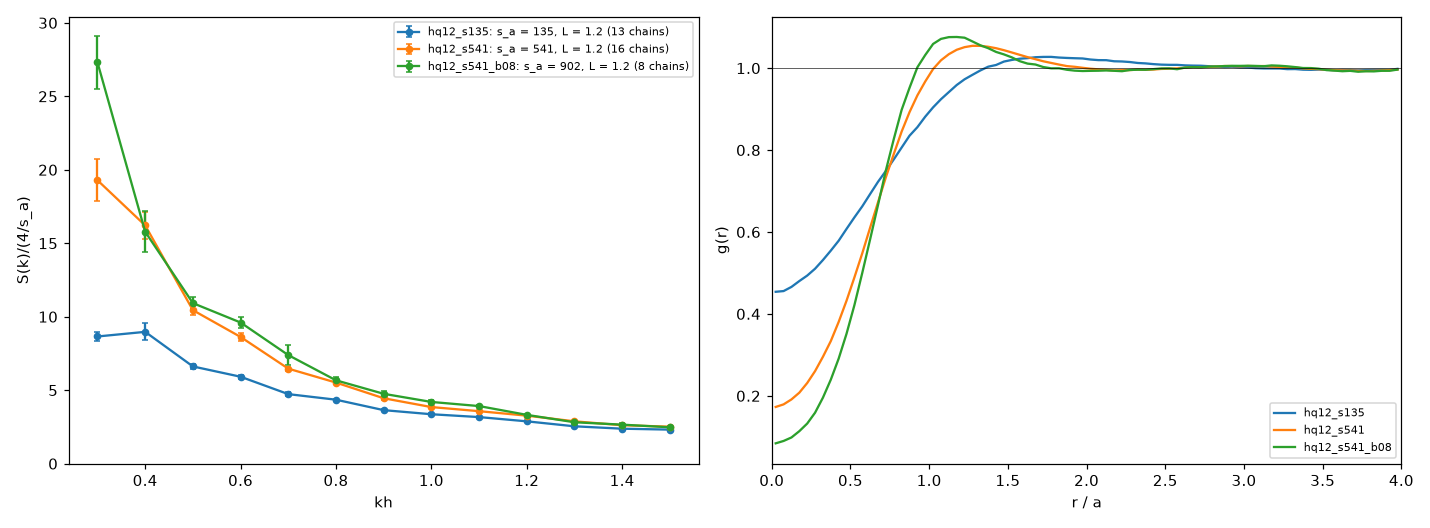
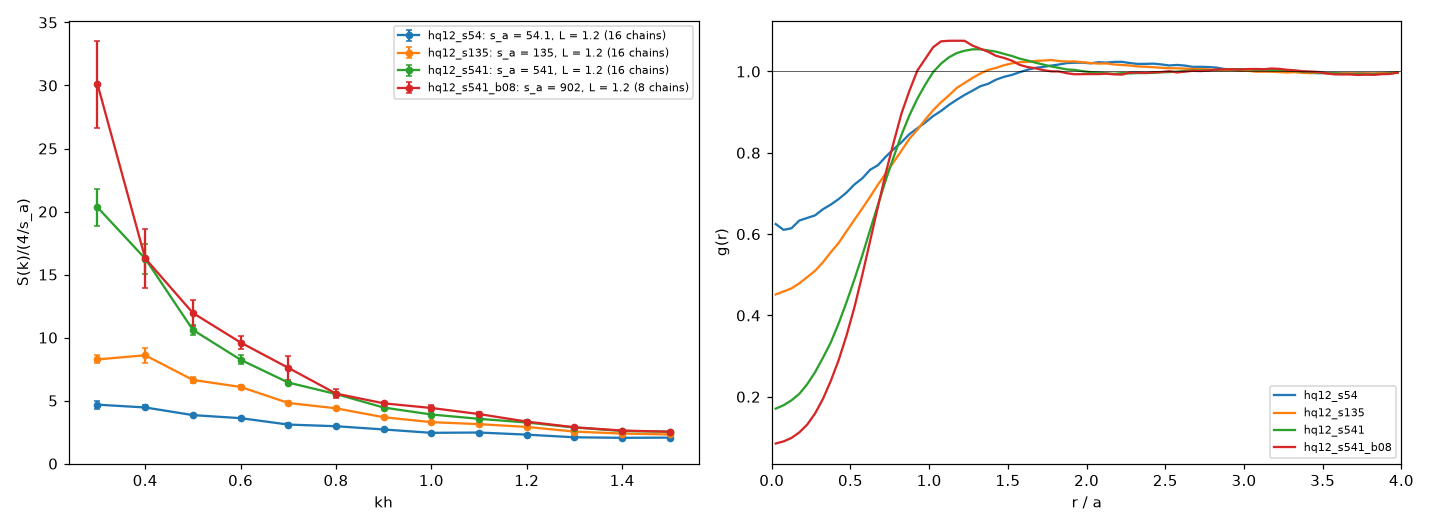
equilibrium_positions: hmc_eq L = 1.2 complete (s_a = 54 added), burn-in 100 updates; long runs complete: the dynamics levels off below HMC (6-11% at kh 1-1.5, 20-30% at 0.3-0.5; 3-4σ at s_a = 135), not slow relaxation

diff --git a/docs/equilibrium_positions.tex b/docs/equilibrium_positions.tex
@@ -688,47 +688,50 @@ start that remembers it need not give equal $C(k\hat x)$ and $C(k\hat y)$.  The 
 not equilibrium, at $kh\lesssim0.5$.  Campaign \texttt{hmc\_liou2} (job 61309610) repeats the $2\times2$ with the Liouville measure, an HMC start of
 200 updates with random trajectory lengths in $[L/2c_s,L/c_s]$ (\texttt{SR\_HMC\_TAUJIT}), independent seeds, and 64 runs per cell.
 
-\paragraph{The equilibrium $S(\bm k)$ from many chains} (campaign \texttt{hmc\_eq}, job 61295241; first 37 of 72 chains: $L=1.2$, $s_a=135$ (13
-chains) and $541$ (16), and $s_a=541$ boosted to $v_0=0.8$ (8; $s_a=902$ in the lab), \Fig{fig:hmceqfirst}).  $S(\bm k)/(4/s_a)$ per band of $kh$,
-with the error from the spread of the chains and $\tau_{\rm int}$:
+\paragraph{The equilibrium $S(\bm k)$ from many chains} (campaign \texttt{hmc\_eq}, job 61295241; the $L=1.2$ sets complete, 16 chains each at
+$s_a=54$, $135$, $541$, and 8 at $s_a=541$ boosted to $v_0=0.8$ ($s_a=902$ in the lab); the $L=2.4$ sets running; \Fig{fig:hmceqfirst}).
+$S(\bm k)/(4/s_a)$ per band of $kh$, after a burn-in of 100 updates, with the error from the spread of the chains and $\tau_{\rm int}$:
 \begin{center}
 \begin{tabular}{lcccc}
 \hline
 $kh$ & $0.3$ & $0.5$ & $1.0$ & $1.5$ \\ \hline
-$s_a=135$ & $8.7(3)$ & $6.6(2)$ & $3.36(7)$ & $2.32(3)$ \\
-$s_a=541$ & $19.3(14)$ & $10.5(3)$ & $3.85(8)$ & $2.52(3)$ \\
-$s_a=541$, $v_0=0.8$ & $27(2)$ & $10.9(4)$ & $4.2(1)$ & $2.47(4)$ \\
+$s_a=54$ & $4.7(3)$ & $3.85(8)$ & $2.44(9)$ & $2.06(6)$ \\
+$s_a=135$ & $8.3(3)$ & $6.6(2)$ & $3.29(7)$ & $2.32(4)$ \\
+$s_a=541$ & $20.3(15)$ & $10.6(4)$ & $3.90(11)$ & $2.54(4)$ \\
+$s_a=541$, $v_0=0.8$ & $30(3)$ & $12.0(10)$ & $4.4(2)$ & $2.53(9)$ \\
 \hline
 \end{tabular}
 \end{center}
-The equilibrium $S(\bm k)$ rises steeply toward small $k$ at $s_a=541$ (from $2.5$ to $19$ times $4/s_a$ between $kh=1.5$ and $0.3$), less at
-$s_a=135$.  The boosted chains (in units of their own $4/s_a$) agree with those at rest at $kh=0.4$--$0.5$ and $kh\ge1.2$, lie
-$5$--$15\%$ (about $2\sigma$) higher at $kh=0.6$--$1.1$, and well above at $kh=0.3$ ($27$ against $19$); more chains will tell.
-The dynamics from the lattice reached $3.9(4)$ at $kh=0.52$ by $t=200$ (\Sect{sec:hmcvsdyn}): far from the equilibrium value $10.5(3)$
-(the one-chain estimate there, $15.1(1.5)$, was high), still relaxing.  The long runs of \texttt{hmc\_dyn} ($t=1000$, $2000$)
-and the rest of \texttt{hmc\_eq} ($s_a=54$; $L=2.4$) are running.
+The burn-in matters at small $k$: from the lattice, $S$ at $kh=0.3$ settles only after $\approx100$ updates (the default of 20 used before gave
+$19.3$ at $s_a=541$).  The equilibrium $S(\bm k)$ rises toward small $k$, more steeply the higher the entropy per particle: between $kh=1.5$
+and $0.3$ by a factor $2.3$ at $s_a=54$ and $8$ at $s_a=541$.  The boosted chains used the fixed trajectory $\tau=L/c_s$; at rest that
+length is resonant (\Sect{sec:hmcdyn}), so they are to be repeated with random lengths before they are compared in detail.  The dynamics
+from the lattice reached $3.9(4)$ at $kh=0.52$ by $t=200$ (\Sect{sec:hmcvsdyn}), far from the equilibrium $10.6(4)$ (the one-chain estimate
+there, $15.1(1.5)$, was high).
 
-\paragraph{The long runs against HMC} (\texttt{hmc\_dyn}, \texttt{hd\_long\_s541} and \texttt{hd\_long\_s135}: GLF from the lattice, 4 runs each, still
-running, read from their checkpoints at $t=1040$ and $890$; \Fig{fig:longhmc}).  $S(\bm k)/(4/s_a)$ over the last $200$:
+\paragraph{The long runs against HMC} (\texttt{hmc\_dyn}, \texttt{hd\_long\_s541} to $t=2000$ and \texttt{hd\_long\_s135} to $t=1000$: GLF from
+the lattice, 4 runs each, complete; \Fig{fig:longhmc}).  $S(\bm k)/(4/s_a)$ averaged over the plateau ($t>800$ and $t>300$), errors from the
+spread of the 4 runs:
 \begin{center}
 \begin{tabular}{lcccc}
 \hline
 $kh$ & $0.3$ & $0.5$ & $1.0$ & $1.5$ \\ \hline
-$s_a=541$, dynamics, $t=840$--$1040$ & $15.6$ & $7.9$ & $3.5$ & $2.39$ \\
-$s_a=541$, HMC & $19.3(14)$ & $10.5(3)$ & $3.85(8)$ & $2.52(3)$ \\
-$s_a=135$, dynamics, $t=690$--$890$ & $6.8$ & $4.9$ & $2.76$ & $2.19$ \\
-$s_a=135$, HMC & $8.7(3)$ & $6.6(2)$ & $3.36(7)$ & $2.32(3)$ \\
+$s_a=541$, dynamics, $t>800$ & $14.6(45)$ & $8.6(14)$ & $3.67(19)$ & $2.40(8)$ \\
+$s_a=541$, HMC & $20.3(15)$ & $10.6(4)$ & $3.90(11)$ & $2.54(4)$ \\
+$s_a=135$, dynamics, $t>300$ & $5.8(6)$ & $5.1(7)$ & $2.93(7)$ & $2.14(5)$ \\
+$s_a=135$, HMC & $8.3(3)$ & $6.6(2)$ & $3.29(7)$ & $2.32(4)$ \\
 \hline
 \end{tabular}
 \end{center}
-At $s_a=541$ the short wavelengths reach the HMC values by $t\approx300$; the long ones are still rising at $t=1000$ ($kh=0.3$ from $1.4$ to
-$16$).  At $s_a=135$ the bands level off by $t\approx200$, but at $kh=1$--$1.5$ about $5$--$15\%$ below HMC, outside the errors of the
-windows; whether this is a real difference between the dynamics and the HMC measure needs the remaining runs (and more of them).
+The dynamics levels off below HMC in every band, by $6$--$11\%$ at $kh=1$--$1.5$ and $20$--$30\%$ at $kh=0.3$--$0.5$.  At $s_a=135$ the plateau
+holds from $t\approx300$ to $1000$ and is $3$--$4\sigma$ below HMC at $kh=0.3$ and $1.0$.  So this is not slow relaxation: the dynamics
+samples a smaller $S(\bm k)$ than HMC.  At $s_a=541$ the same shortfall is within $1$--$2\sigma$ (4 runs).  Both use the Einstein measure;
+campaign \texttt{hmc\_liou2} (Liouville) will show whether the measure moves the dynamics, HMC, or both.
 
 \begin{figure}[t]
 \includegraphics[width=\textwidth]{figs/equilibrium_Sk_long_vs_hmc.png}
-\caption{The long runs of \texttt{hmc\_dyn} (GLF, lattice start, 4 runs, read from checkpoints): $S(\bm k)/(4/s_a)$ in windows of $50$ against
-$t$ for four bands of $kh$; dashed, the HMC equilibrium of \texttt{hmc\_eq} at the same $s_a$.  \texttt{examples/long\_vs\_hmc.jl}.}
+\caption{The long runs of \texttt{hmc\_dyn} (GLF, lattice start, 4 runs, complete): $S(\bm k)/(4/s_a)$ in windows of $50$ against
+$t$ for four bands of $kh$; dashed, the HMC equilibrium of \texttt{hmc\_eq} at the same $s_a$ (burn-in 100 updates).  \texttt{examples/long\_vs\_hmc.jl}.}
 \label{fig:longhmc}
 \end{figure}
 
@@ -770,7 +773,7 @@ along and across $x$ (columns); the four methods overlaid (shifted slightly in $
 
 \begin{figure}[t]
 \includegraphics[width=\textwidth]{figs/equilibrium_Sk_hmc_eq_first.png}
-\caption{Campaign \texttt{hmc\_eq}, the first 37 chains: the equilibrium $S(\bm k)/(4/s_a)$ against $kh$ (left) and $g(r)$ (right), $L=1.2$.}
+\caption{Campaign \texttt{hmc\_eq}, the $L=1.2$ sets (burn-in 100 updates): the equilibrium $S(\bm k)/(4/s_a)$ against $kh$ (left) and $g(r)$ (right), $L=1.2$.}
 \label{fig:hmceqfirst}
 \end{figure}
 
